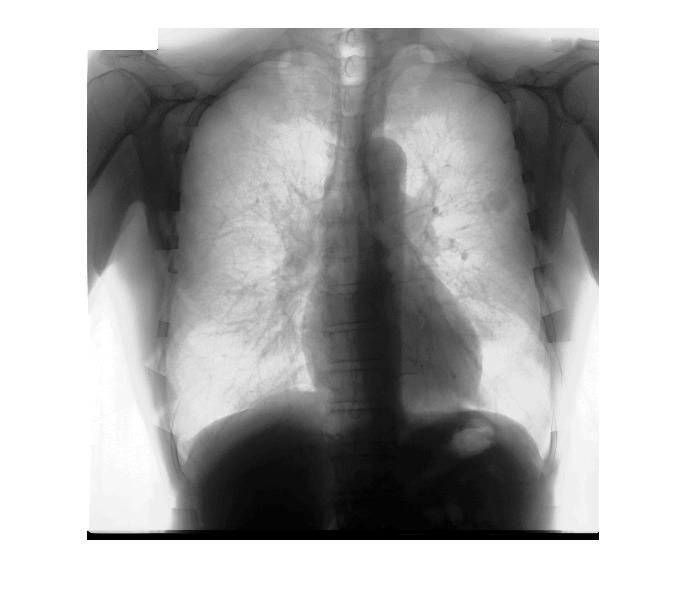
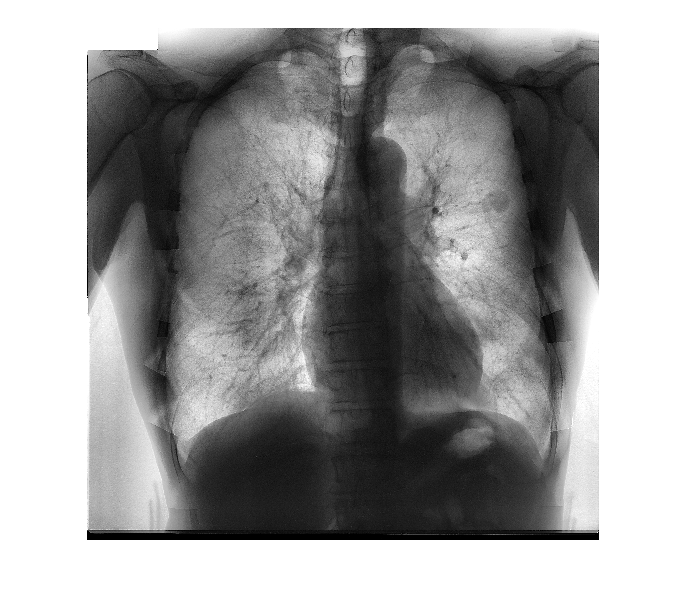
better contrast

diff --git a/preprocess.m b/preprocess.m
@@ -1,24 +1,28 @@
 function out = preprocess(A)
   A = imcomplement(A);
   B = medfilt2(A);
+ % B = imadjust(B,stretchlim(B),[]);
   B = highboost(B);
   %imshow(B);
-  %B = imadjust(B,stretchlim(B),[]);
-  J = histeq(B);
+  
+  %J = histeq(B);
+  J = adapthisteq(B);
   %imshow(J);
   J = medfilt2(J);
   %imshow(J);
   J = imadjust(J,stretchlim(J),[]);
+  %J = highboost(J);
   J = imcomplement(J);
-  %imshow(J);
+  % R = imsharpen(J);
+  %imshow(R);
   out = J;%im2bw(J, graythresh(J));
 end
 
 function o = highboost(img)
-  m = [1 1 1; 1 1 1; 1 1 1]/9;
-  f = imfilter(img, m);
+ % m = [1 1 1; 1 1 1; 1 1 1]/9;
+  %f = imfilter(img, m);
   k = 4;
-  u = [-1 -1 -1;-1 k+4 -1; -1 -1 -1];
-  fh = imfilter(img,u) + f;
+  u = [0 -k 0;-k 4*k+1 -k; 0 -k 0];
+  fh = imfilter(img,u,'same');% + f;
   o = fh;
 end
